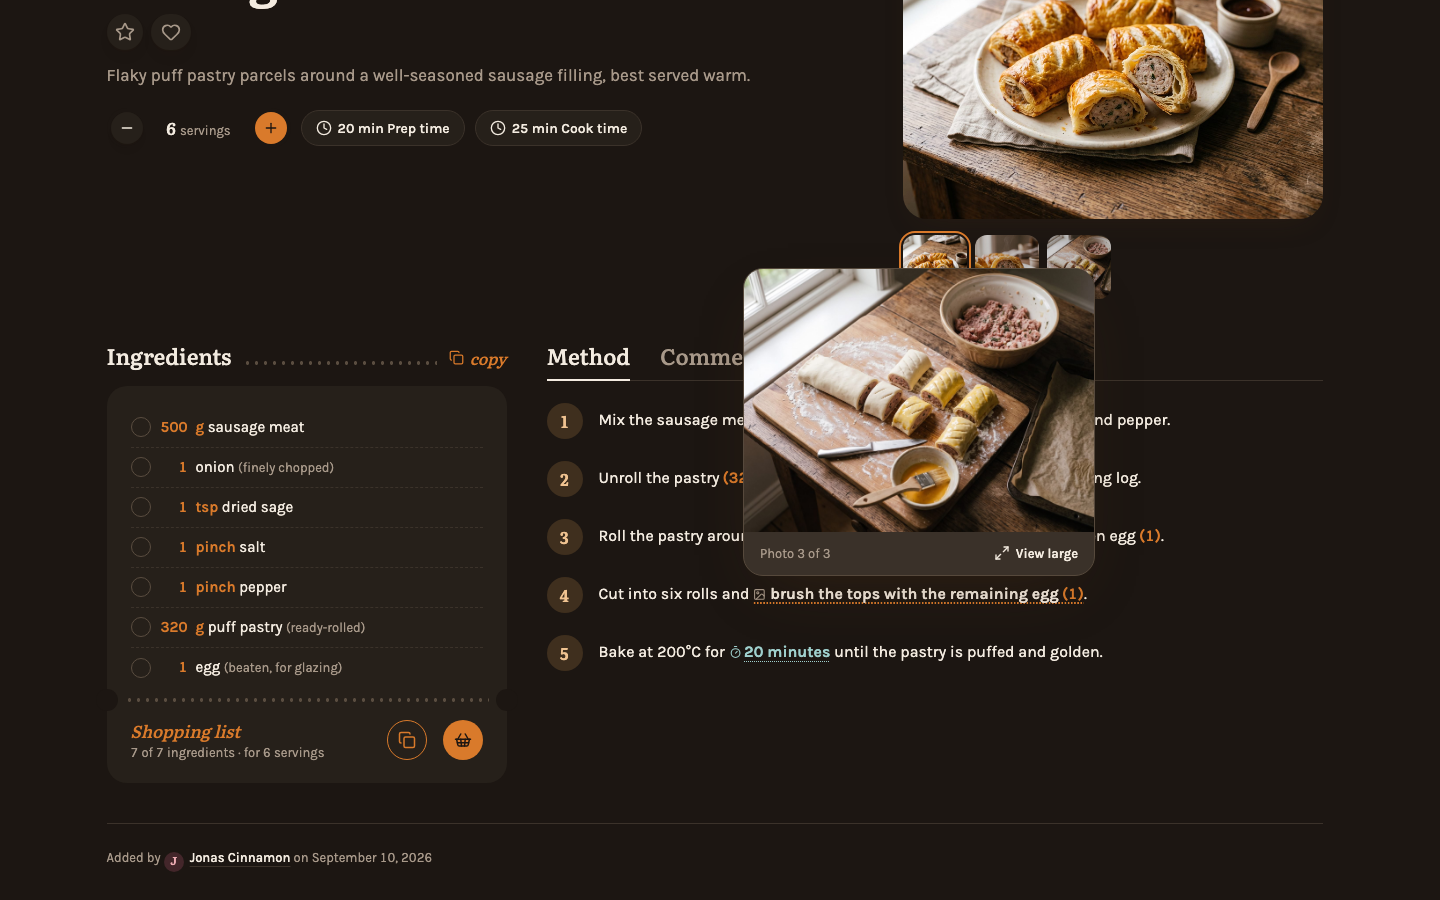
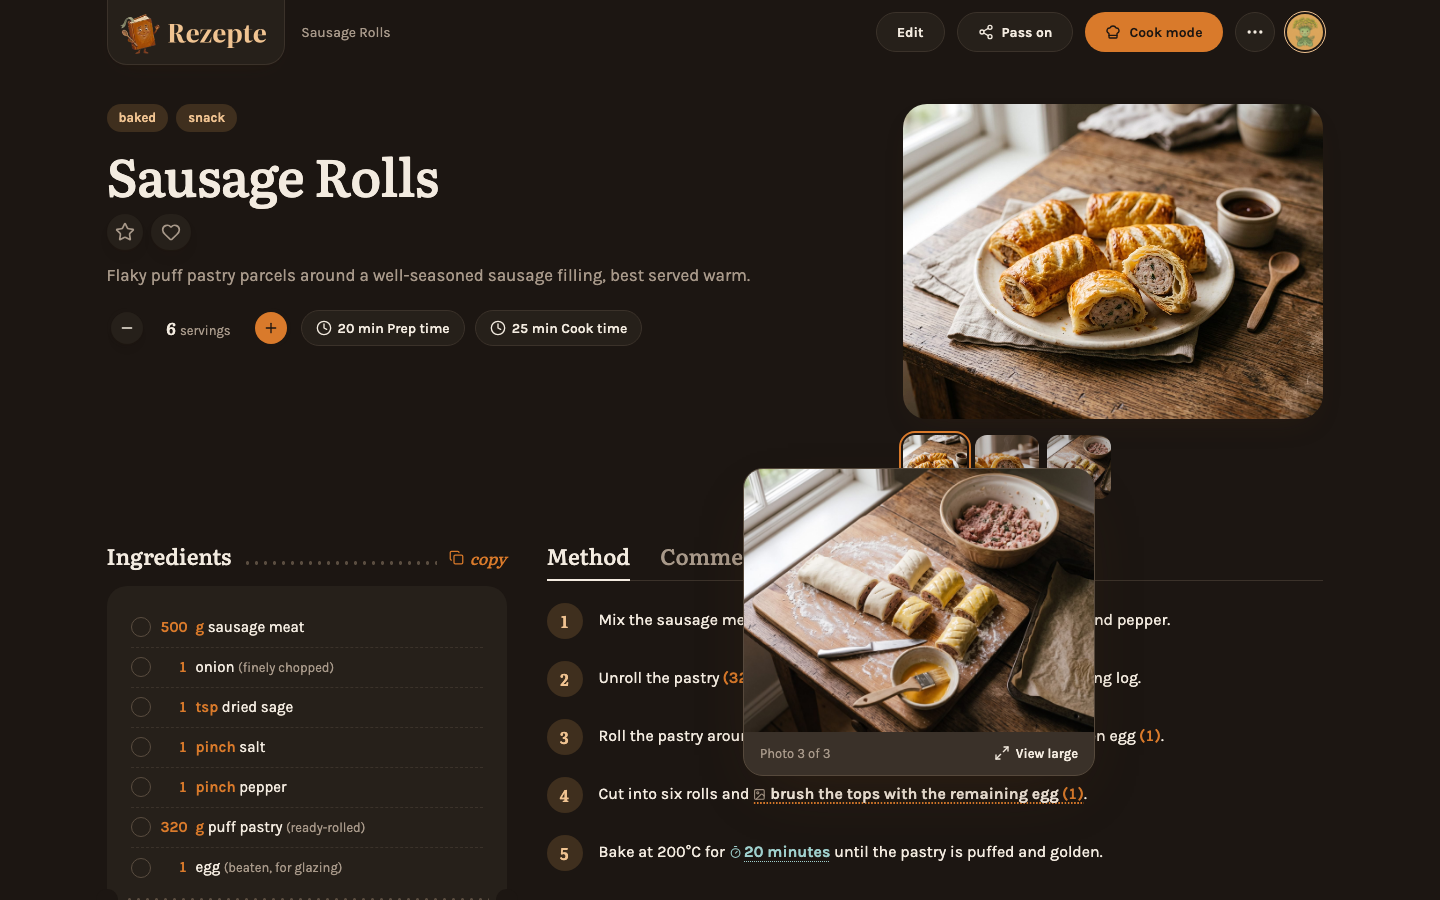
docs(user): frame the step photo screenshot on the recipe title

diff --git a/docs/user/screenshots/recipes.spec.ts b/docs/user/screenshots/recipes.spec.ts
@@ -195,8 +195,11 @@ test('recipe-step-photo', async ({ page }, testInfo) => {
 	await prepare(page, testInfo, { login: true });
 	await page.goto(PHOTO_RECIPE);
 	const phrase = page.locator('[data-step-photo]');
-	// Centered first, so the card at the phrase has room below it.
-	await phrase.evaluate((el) => el.scrollIntoView({ block: 'center' }));
+	// On a phone the step is centered, so it sits just above the sheet and the
+	// top bar names the recipe. On desktop the page stays at the top: the
+	// title and hero photo frame the step, and centering the phrase scrolled
+	// both out of the shot.
+	if (isMobile(testInfo)) await phrase.evaluate((el) => el.scrollIntoView({ block: 'center' }));
 	await phrase.click();
 	await expect(page.getByRole('dialog').getByText('Photo 3 of 3')).toBeVisible();
 	await shot(page, 'recipe-step-photo');
